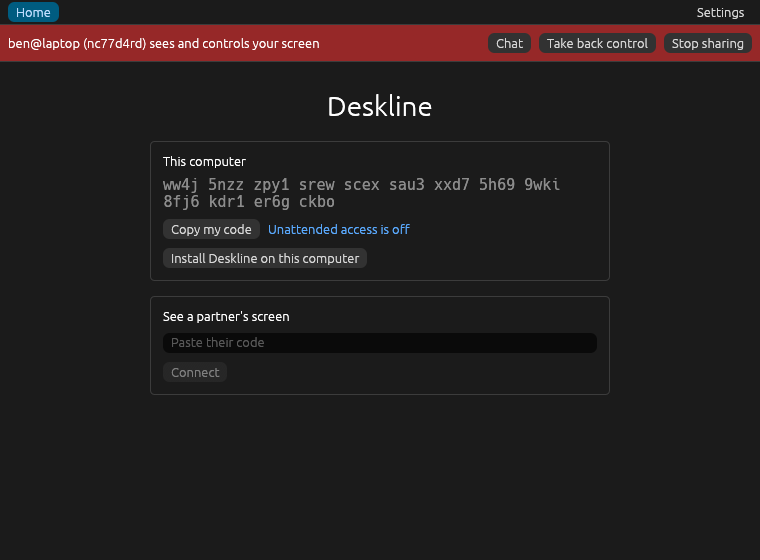
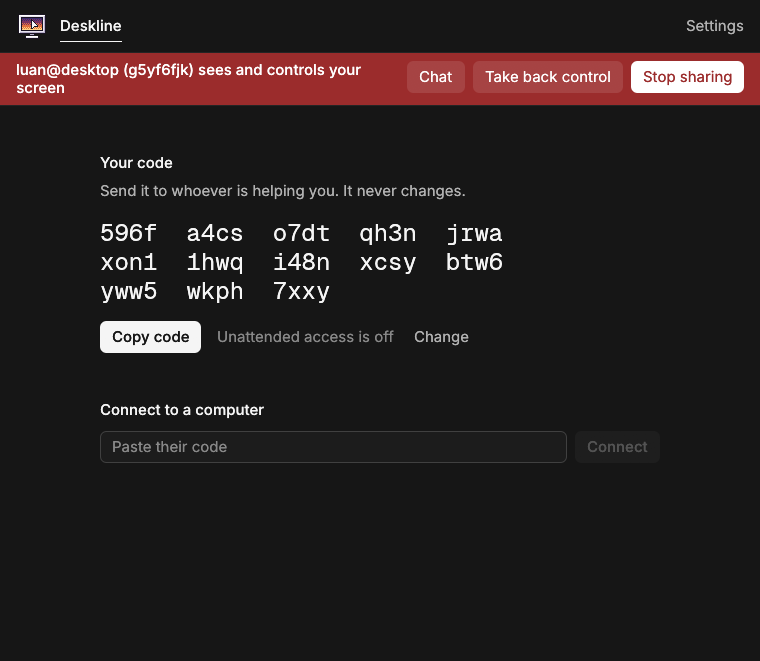
README screenshots of 0.8.0: the viewer up top, then each person's side, and the button names as the app says them

diff --git a/README.md b/README.md
@@ -19,8 +19,7 @@ nobody is in front of it, the sign-in screen, the address book, a picture that s
 bad connection. That's all in now.
 
 <p align="center">
-  <img src="docs/home.png" alt="Deskline's home: this computer's code, a field for a partner's code, and the recent connections with names" width="49%">
-  <img src="docs/prompt.png" alt="The prompt when someone connects: their name and code, Let them control, Always allow them, Accept and Decline" width="49%">
+  <img src="docs/viewer.png" alt="Deskline showing the other computer's screen: the toolbar with the link meter, the route, round trip and frame rate, Ctrl+Alt+Del, Privacy, Capture mouse, the monitor picker, quality, Sound, Actual size, Full screen, Files and Chat, and the other side's red sharing bar at the top of their screen" width="100%">
 </p>
 
 ## Install
@@ -29,7 +28,7 @@ Grab the file for your system from [Releases](https://github.com/luannzin/deskli
 
 | System | File | |
 |---|---|---|
-| Windows 10/11 | `deskline.exe` | One file. Run it as is, or click **Install Deskline on this computer** to install it for everyone with its service (see below). |
+| Windows 10/11 | `deskline.exe` | One file. Run it as is, or click **Settings → Install for all users** to install it for everyone with its service (see below). |
 | Ubuntu 24.04+ / Debian 12+ | `deskline_amd64.deb` | `sudo apt install ./deskline_amd64.deb` |
 | Linux, portable | `deskline-linux-x86_64` | No install: `chmod +x deskline-linux-x86_64` and run it. Needs PipeWire, GStreamer and a desktop session. |
 | macOS 11+ | `Deskline.dmg` | Drag Deskline into Applications. Allow it under **System Settings → Privacy & Security → Screen Recording** and **Accessibility** when it asks. |
@@ -44,16 +43,25 @@ is downloaded, and the installed Windows service updates on its own.
 ## Use it
 
 1. Both people open Deskline.
-2. The person who needs help clicks **Copy my code** and sends it.
-3. The other pastes it under **See a partner's screen** and clicks **Connect**.
-4. The first person gets the prompt above and clicks **Accept**. "Let them control" is ticked by
+2. The person who needs help clicks **Copy code** and sends it.
+3. The other pastes it under **Connect to a computer** and clicks **Connect**.
+4. The first person gets the prompt below and clicks **Accept**. "Let them control" is ticked by
    default, the way AnyDesk's accept window is; untick it for view only.
 5. While a session runs the person sharing sees a red bar with **Chat**, **Take back control** and
    **Stop sharing**.
 
+The person helping:
+
 <p align="center">
-  <img src="docs/sharing.png" alt="The red bar on the shared computer: who is connected, Chat, Take back control, Stop sharing" width="49%">
-  <img src="docs/waiting.png" alt="The viewer waiting for the other side to accept, with the option to log in with the unattended-access password instead" width="49%">
+  <img src="docs/home.png" alt="Deskline's home: your code in groups of four with Copy code, a field to paste their code under Connect to a computer, and Recent with a name for each computer" width="49%">
+  <img src="docs/waiting.png" alt="Waiting for them to accept, with the dusk dots sweeping, and their unattended-access password as the other way in" width="49%">
+</p>
+
+The person being helped:
+
+<p align="center">
+  <img src="docs/prompt.png" alt="The prompt when someone connects: their name and code, Let them control ticked, Always allow them, Accept and Decline" width="49%">
+  <img src="docs/sharing.png" alt="The red bar on the shared computer: who sees and controls the screen, Chat, Take back control, Stop sharing" width="49%">
 </p>
 
 The viewer's toolbar has everything else: **Ctrl+Alt+Del**, **Privacy** (blanks their screen and
@@ -102,7 +110,7 @@ For your own computers, or anyone who's fine with you getting in without a click
 
 ### Installed mode on Windows
 
-**Install Deskline on this computer** (one UAC prompt) copies Deskline to
+**Settings → Install for all users** (one UAC prompt) copies Deskline to
 `C:\Program Files\Deskline` and installs a Windows service. That's what makes it a real AnyDesk
 replacement for remote support:
 
@@ -125,7 +133,7 @@ On Linux and macOS, **Start Deskline when I sign in** keeps it reachable from th
 | 9-digit address | A 52-character code. Nobody types it: copy, paste, and it's saved in **Recent** under a name you choose (**Rename**). There's no central server handing out short numbers, which is the point. |
 | Accept window with permissions | Same, with **Let them control** and **Always allow them** |
 | Unattended access password | **Settings → Unattended access** |
-| "Install AnyDesk" | **Install Deskline on this computer** |
+| "Install AnyDesk" | **Settings → Install for all users** |
 | Address book | **Recent**, with names |
 | File manager / clipboard files | **Files** panel to browse, download and send into any folder; copy files on one computer and paste them on the other |
 | Privacy mode, block input | **Privacy** (Windows 10 2004+) |

diff --git a/PRODUCT.md b/PRODUCT.md
@@ -70,10 +70,10 @@ one. Free and open source. One file to run on Windows.
 
 ## Evidence on Hand
 
-- Release v0.2.0 and v0.2.1 on GitHub with Windows exe, Linux deb and portable binary, macOS
+- Releases on GitHub (v0.8.0 latest) with Windows exe, Linux deb and portable binary, macOS
   dmg and zip.
-- Screenshots in `docs/` show the pre-redesign interface (blue egui accents); they are not
-  current.
+- Screenshots in `docs/` are of v0.8.0's release exe on Windows (2026-11-20): two copies on one
+  machine (`--home` folders, made-up names), the viewer on one monitor showing the other.
 - No users, testimonials or usage numbers exist yet. Do not invent them.
 
 ## Product Principles
